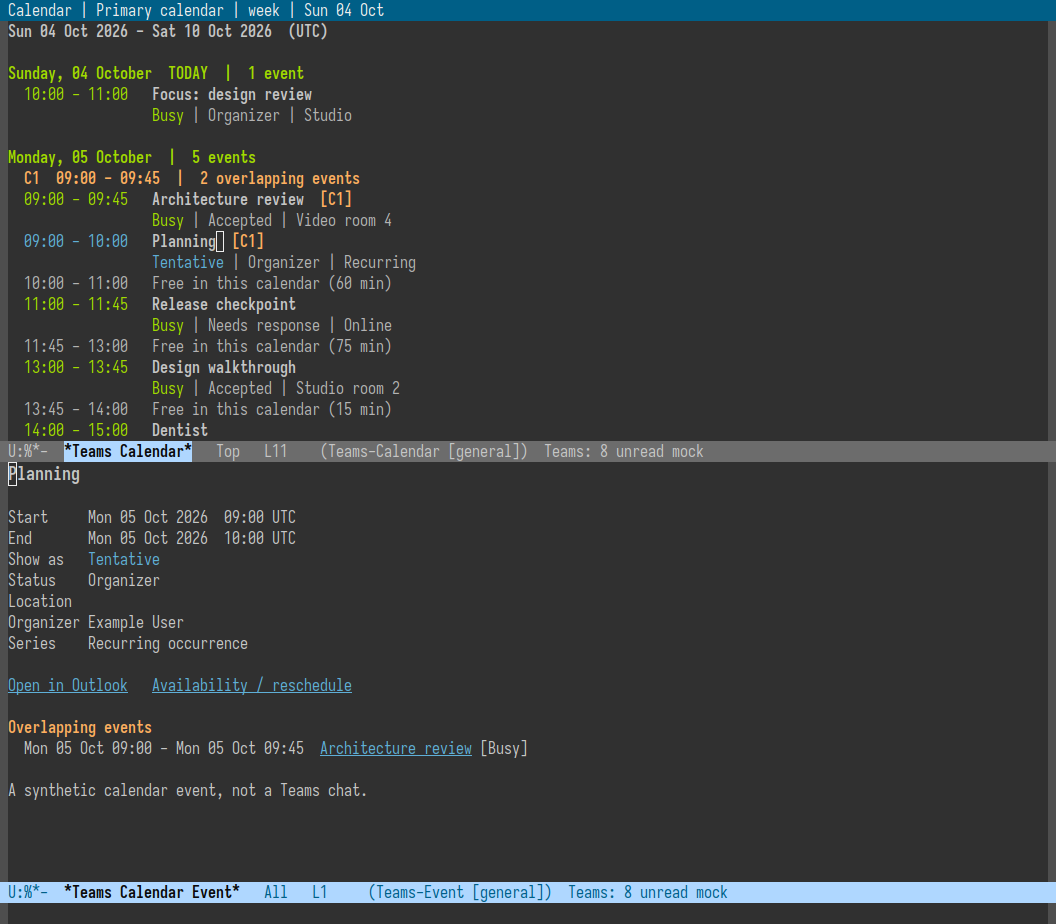
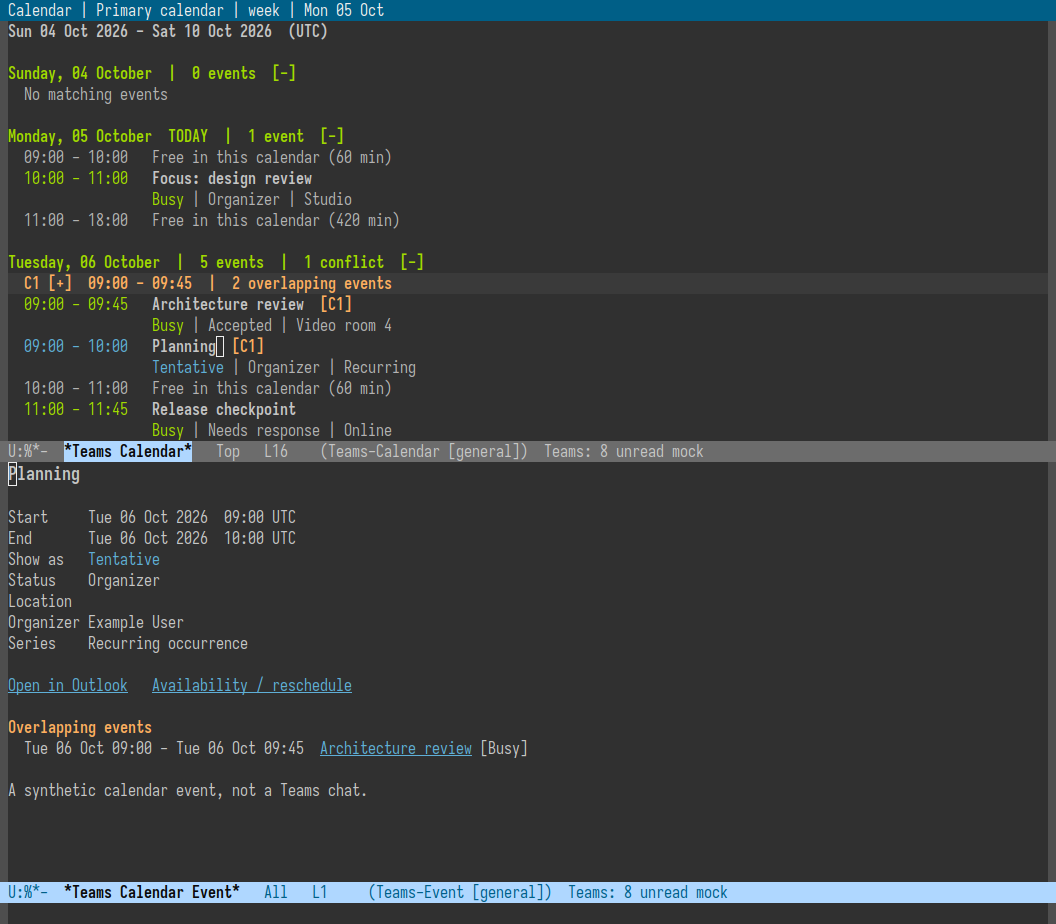
Show foldable calendar conflicts in the Moe documentation

diff --git a/CALENDAR.md b/CALENDAR.md
@@ -81,8 +81,10 @@ The invite reader also links to overlap partners and their exact shared
 intervals, reusing the same pane.
 As with free gaps, overlap detection covers only the loaded selected calendar.
 
-[Conflict detail in real Emacs with Moe and window-purpose](assets/calendar-conflicts.png)
-uses synthetic appointments, not account data.
+![Expanded calendar conflict with per-meeting actions in real Emacs and Moe](assets/calendar-folds.png)
+
+The [invite detail](assets/calendar-conflicts.png) and expanded agenda above use
+real Emacs with Moe and window-purpose, with synthetic appointments only.
 
 These are ordinary, customizable Emacs keymaps:
 `teams4e-calendar-mode-map` and `teams4e-calendar-event-mode-map`.

diff --git a/README.md b/README.md
@@ -378,7 +378,8 @@ Update the installed backend as well as the Lisp package for this feature.
 ![Independent calendar agenda in real Emacs with Moe Dark and synthetic events](assets/calendar.png)
 
 See [Calendar setup, defaults, and boundaries](CALENDAR.md), including the
-[event reader](assets/calendar-detail.png).
+[event reader](assets/calendar-detail.png) and
+[expanded conflict actions](assets/calendar-folds.png).
 
 ## Optional Agent Workflows
 
